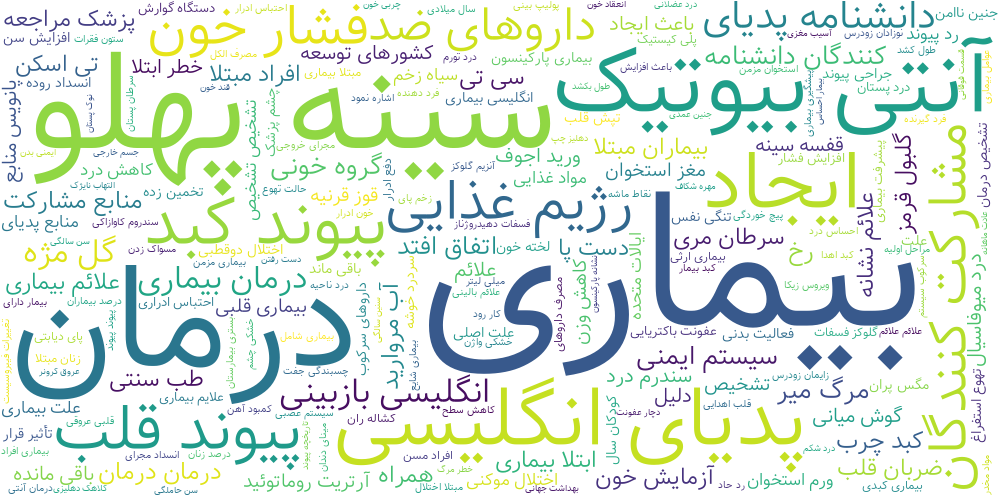
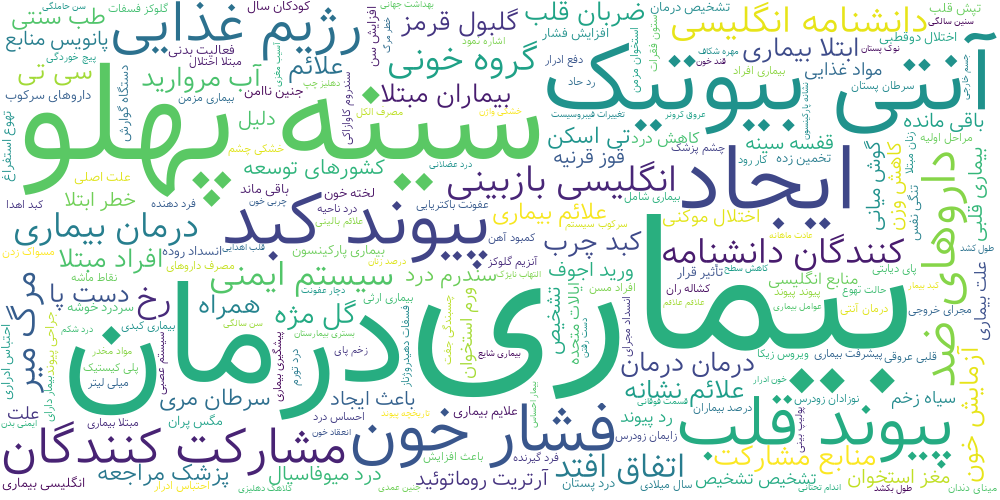
Some changes in notebook and report

diff --git a/reports/report.tex b/reports/report.tex
@@ -77,7 +77,7 @@
     \centering
     \includegraphics[width=15cm]{images/data.png}
     \caption{نمونهای از دادهٔ جمعآوریشده}
-    \label{fig:galaxy}
+    \label{fig:data}
 \end{figure*}
 
 
@@ -89,7 +89,7 @@
     \centering
     \includegraphics[width=15cm]{images/drqa.png}
     \caption{شیوهٔ کار سیستم \lr{DrQA}}
-    \label{fig:galaxy}
+    \label{fig:drqa}
 \end{figure*}
 
 
@@ -110,7 +110,7 @@
     \item ردهها: ردههایی که در قسمت پایینی صفحهٔ ویکیپدیا به صورت لیستی قرار داده شدهاند، ذخیره شده است.
 \end{itemize}
 
-لازم به ذکر است که سه مورد انتهایی مجموعهدادهها به صورت اتوماتیک و با استفاده از کد استخراج شده است.
+لازم به ذکر است که سه مورد انتهایی مجموعهدادهها به صورت اتوماتیک و با استفاده از کد استخراج شده است. نمونهای دادهها در شکل \ref{fig:data} آمدهاند
 
 
 
@@ -127,47 +127,68 @@
 
 سیستمهای پیشرفتهتری از پرسش و پاسخ وجود دارند که از ویکیپدیا و وب استفاده میکنند؛ مانند \lr{QuASE}، \lr{Microsoft's AskMSR} \cite{ref6}،  \lr{IBM's DeepQA} و YodaQA \cite{ref7} که هر کدام از روشهای خاصّ خود برای پیادهسازی این سیستم استفاده کردهاند.
 
-\begin{figure*}[!htp]
-    \centering
-    \includegraphics[width=10cm]{images/wordcloud.png}
-    \caption{ابر کلمات استفاده شده در متنهای مجموعهدادههای جمعآوریشده}
-    \label{fig:galaxy}
+
+\begin{figure*}[t]
+  \begin{minipage}[t]{\linewidth}
+    \includegraphics[width=\linewidth]{images/similarity_count.png}
+    \caption{شباهت بین سؤالها و جوابهای یک ردیف در دادهٔ جمعآوریشده}
+    \label{fig:sim}
+  \end{minipage}\hfill%
 \end{figure*}
 
 
+
+
 که یکی از بزرگترین و مشابهترین کارها به کار ما، پروژهای به نام \lr{DrQA}\cite{ref1}
-است و کاری را انجام داده است که برنامه داشتیم انجام دهیم. بدنهٔ این پروژه به گونهای است که با وارد کردن دادهٔ فارسی میتوان مدلی را آموزش داد و از نتیجهٔ آن استفاده کرد. شکل کلّی این پروژه در شکل ۲ نشان داده شده است.
+است و کاری را انجام داده است که برنامه داشتیم انجام دهیم. بدنهٔ این پروژه به گونهای است که با وارد کردن دادهٔ فارسی میتوان مدلی را آموزش داد و از نتیجهٔ آن استفاده کرد. شکل کلّی این پروژه در شکل \ref{fig:drqa} نشان داده شده است.
 
 
 \subsection{\lr{DrQA} چیست؟}
 ک سیستم درک مطلب از طریق خواندن است که از ویکیپدیا به عنوان تنها منبع خود برای یافتن جواب استفاده میکند به طوری که انگار شخصی از روی دایرةالمعارف جواب سؤالات را میدهد. البتّه این سیستم به گونهای طرّاحی شده است که میتوان هر منبعی را به عنوان منبع پیدا کردن جواب سؤالات برای آن انتخاب کرد و قابلیّت مقیاسپذیری دارد. این سیستم پس از دریافت سؤال، به دنبال جوابی برای آن سؤال میگردد. تمرکز این پروژه بر روی سؤال و جوابهای طولانی (نه یک کلمهای) است و در این مسیر با چالشهایی همچون پیدا کردن مقالههای مرتبط و پیدا کردن جواب از روی آنها دست و پنجه نرم میکند. این پروژه از ویکیپدیای انگلیسی -از آن جا که بسیار غنی و باجزییات است- به عنوان منبع جوابهای خود استفاده میکند.
 
+\lr{DrQA} از دو قسمت اصلی تشکیل شده است که قسمت اوّل آن تمام مقالات ذخیرهشده را میخواند و از بین آن ۵ مقالهای پتانسیل دارا بودن جواب را در خود دارند، بر میگرداند و قسمت دوّم آن همان هستهٔ اصلی است که مدل روی آن آموزش دیده است.
+
+
+
 این پروژه از شبکهٔ عصبی مکرر چندلایه\footnote{\lr{multi-layer recurrent neural network machine comprehension}} که در حالت پیشفرض روی مجموعهدادههای SQuAD آموزش داده شده است، به عنوان پردازشکنندهٔ مطالب استفاده میکند و در نهایت جوابهای منتخب را با امتیاز حساب شده توسط مدل ارائه میدهد و بهترین آن را به عنوان جواب برمیگرداند.
 
-تمرکز این پروژه بر روی سؤال و جوابهای طولانی (نه یک کلمهای) است و از دادههای با موضوعات گوناگون آموزش دیده است. تمام دادهها و مقالات ویکیپدیا به صورت ماتریسهای وزندادهشده \lr{TF-IDF} ذخیره میشود. پس از دریافت سؤال از مدل آموزشدیده کمک میگیرد تا به جواب درست برسد.
+\begin{itemize}
+    \item \lr{Document Retriever}: 
+ تمام دادهها و مقالات ویکیپدیا به صورت ماتریسهای وزندادهشده \lr{TF-IDF} ذخیره میشوند. پس از آن که سؤال دریافت شد، توسط ادغام \lr{TF-IDF} و \lr{n-grams} -حتّی سریعتر و با دقّت بهتر از موتور جستوجوی خود ویکیپدیا- مقالات مرتبط را پیدا میکند.
+ 
+ \item \lr{Document Reader}: پس از کدگذاری پاراگرافها (با استفاده از الگوریتم \lr{LSTM}\footnote{\lr{long short term memory}})، استفاده از شبکهٔ عصبی مکرّر چندلایه کدگذاری سؤال و کدگذاری متن سؤال، جواب منتخب را از بین پاراگرافهای مقالات منتخب مرحلهٔ قبل حدس میزند.
+\end{itemize}
 
+% \begin{figure*}[H]
+%     \centering
+%     \includegraphics[width=18cm]{images/similarity_count.png}
+%     \caption{شباهت سؤال و جواب هر ردیف داده }
+%     \label{fig:sim}
+% \end{figure*}
 
-\begin{figure}[!htp]
-    \centering
-    \includegraphics[width=10cm]{images/newplot.png}
-    \caption{توزیع طول جوابهای مجموعهدادهٔ جمعآوریشده}
-    \label{fig:galaxy}
-\end{figure}
 
 
 
 
 
 \section{پیشپردازشهای انجامشده روی دادهها}
-بخش اعظم این پروژه جمعآوری دادهها بوده است که برای درک بهتر ساختارها و اجزای آن یک سری پیشپردازشها انجام دادهایم تا بدانیم با چه جنس داده و با چه توزیعی از کلمات مواجه هستیم. یکی از کارهای اصلیای که برای پیشپردازش دادهها در فرآیند پردازش زبان طبیعی انجام میشود، حذف کلمات کلیدی \footnote{stopwords} است که انجام دادن آن در این پروژه بیمعنی است. تنها کلمات غیرفارسی را از آن حذف کردیم و الگوهای زبانی را در آن بهبود بخشیدیم. دو نمونه از آمارهایی که در مورد مجموعهدادهها رسم کردهایم، در شکل ۳، ۴ و ۵ آمدهاند.
-\begin{figure}[htp]
+بخش اعظم این پروژه جمعآوری دادهها بوده است که برای درک بهتر ساختارها و اجزای آن یک سری پیشپردازشها انجام دادهایم تا بدانیم با چه جنس داده و با چه توزیعی از کلمات مواجه هستیم. یکی از کارهای اصلیای که برای پیشپردازش دادهها در فرآیند پردازش زبان طبیعی انجام میشود، حذف کلمات کلیدی \footnote{stopwords} است که انجام دادن آن در این پروژه بیمعنی است. تنها کلمات غیرفارسی را از آن حذف کردیم و الگوهای زبانی را در آن بهبود بخشیدیم. دو نمونه از آمارهایی که در مورد مجموعهدادهها رسم کردهایم، در شکل \ref{fig:wc} و \ref{fig:sim} آمدهاند.
+
+برای این که ارتباط بین سؤالات و جوابهای هر ردیف از دادهها را بدانیم، با استفاده از روش \lr{TF-IDF} متن سؤالها و جوابها به بردار تبدیل کردیم و سپس با روش \lr{Cosine Similarity} شباهت بین سؤالها و جوابهای هر ردیف را بررسی کردیم. سؤالها و جوابها تا حدی خوبی به هم شبیه بودند و ارتباط بینشان مشهود بود از آن جا امتیاز شباهتشان با روش مذکور، به طور متوسط روی ۰/۳ بود و این عدد نسبتاً خوبی است.
+
+% \begin{figure}[!htp]
+%     \centering
+%     \includegraphics[width=10cm]{images/newplot (1).png}
+%     \caption{توزیع طول سؤالات مجموعهدادهٔ جمعآوریشده}
+%     \label{fig:galaxy}
+% \end{figure}
+
+\begin{figure}[H]
     \centering
-    \includegraphics[width=10cm]{images/newplot (1).png}
-    \caption{توزیع طول سؤالات مجموعهدادهٔ جمعآوریشده}
-    \label{fig:galaxy}
+    \includegraphics[width=\linewidth]{images/wordcloud.png}
+    \caption{ابر کلمات استفاده شده در متنهای مجموعهدادههای جمعآوریشده}
+    \label{fig:wc}
 \end{figure}
-
-
 
 \section{نتیجه}
 این پروژه با بیشتر شدن دادهها، به امتیاز بیشتری خواهد رسید و هدف ما این است که این پروژه را در زمینههای دیگری به غیر از پزشکی نیز گسترش دهیم و در مراحل بعدتر به الگوریتمهای موجود در این زمینه بهبود بخشیم.
